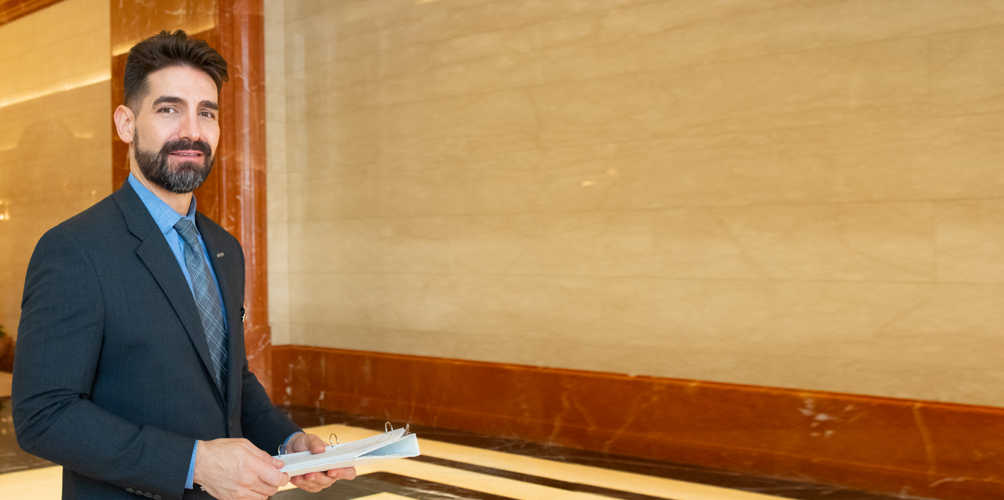
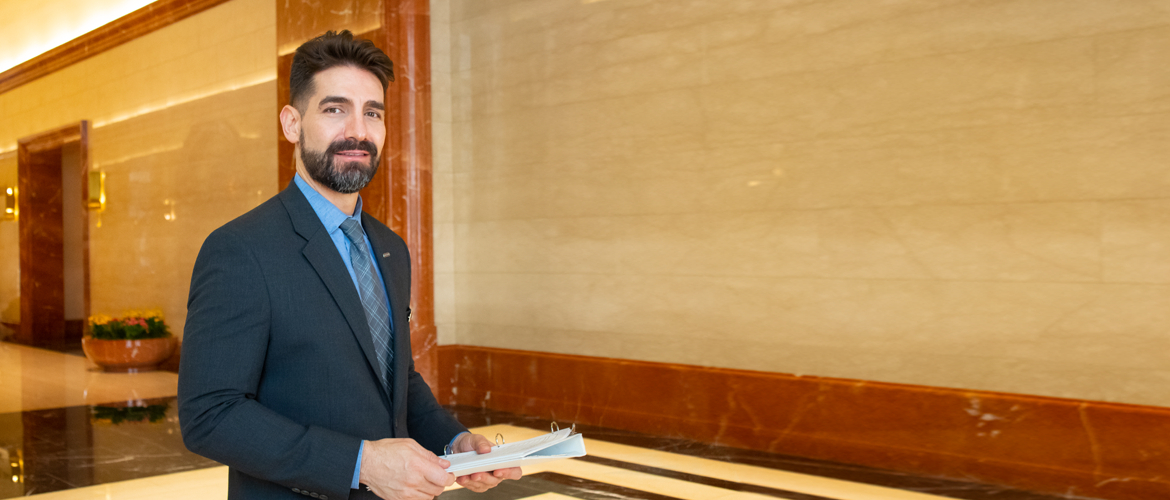
israel positioning

diff --git a/index.html b/index.html
@@ -175,7 +175,7 @@
 					<!--/ End Single Slider -->
 
 					<!-- Single Slider --> 
-					<div class="single-slider" style="background-image:url('images/slider/slider-bg8.jpg'); background-position: left top;">
+					<div class="single-slider" style="background-image:url('images/slider/slider-bg8.jpg'); background-position: 25% top;">
 						<div class="container">
 							<div class="row">
 								<div class="col-md-7 col-md-offset-5 col-sm-12 col-xs-12">
